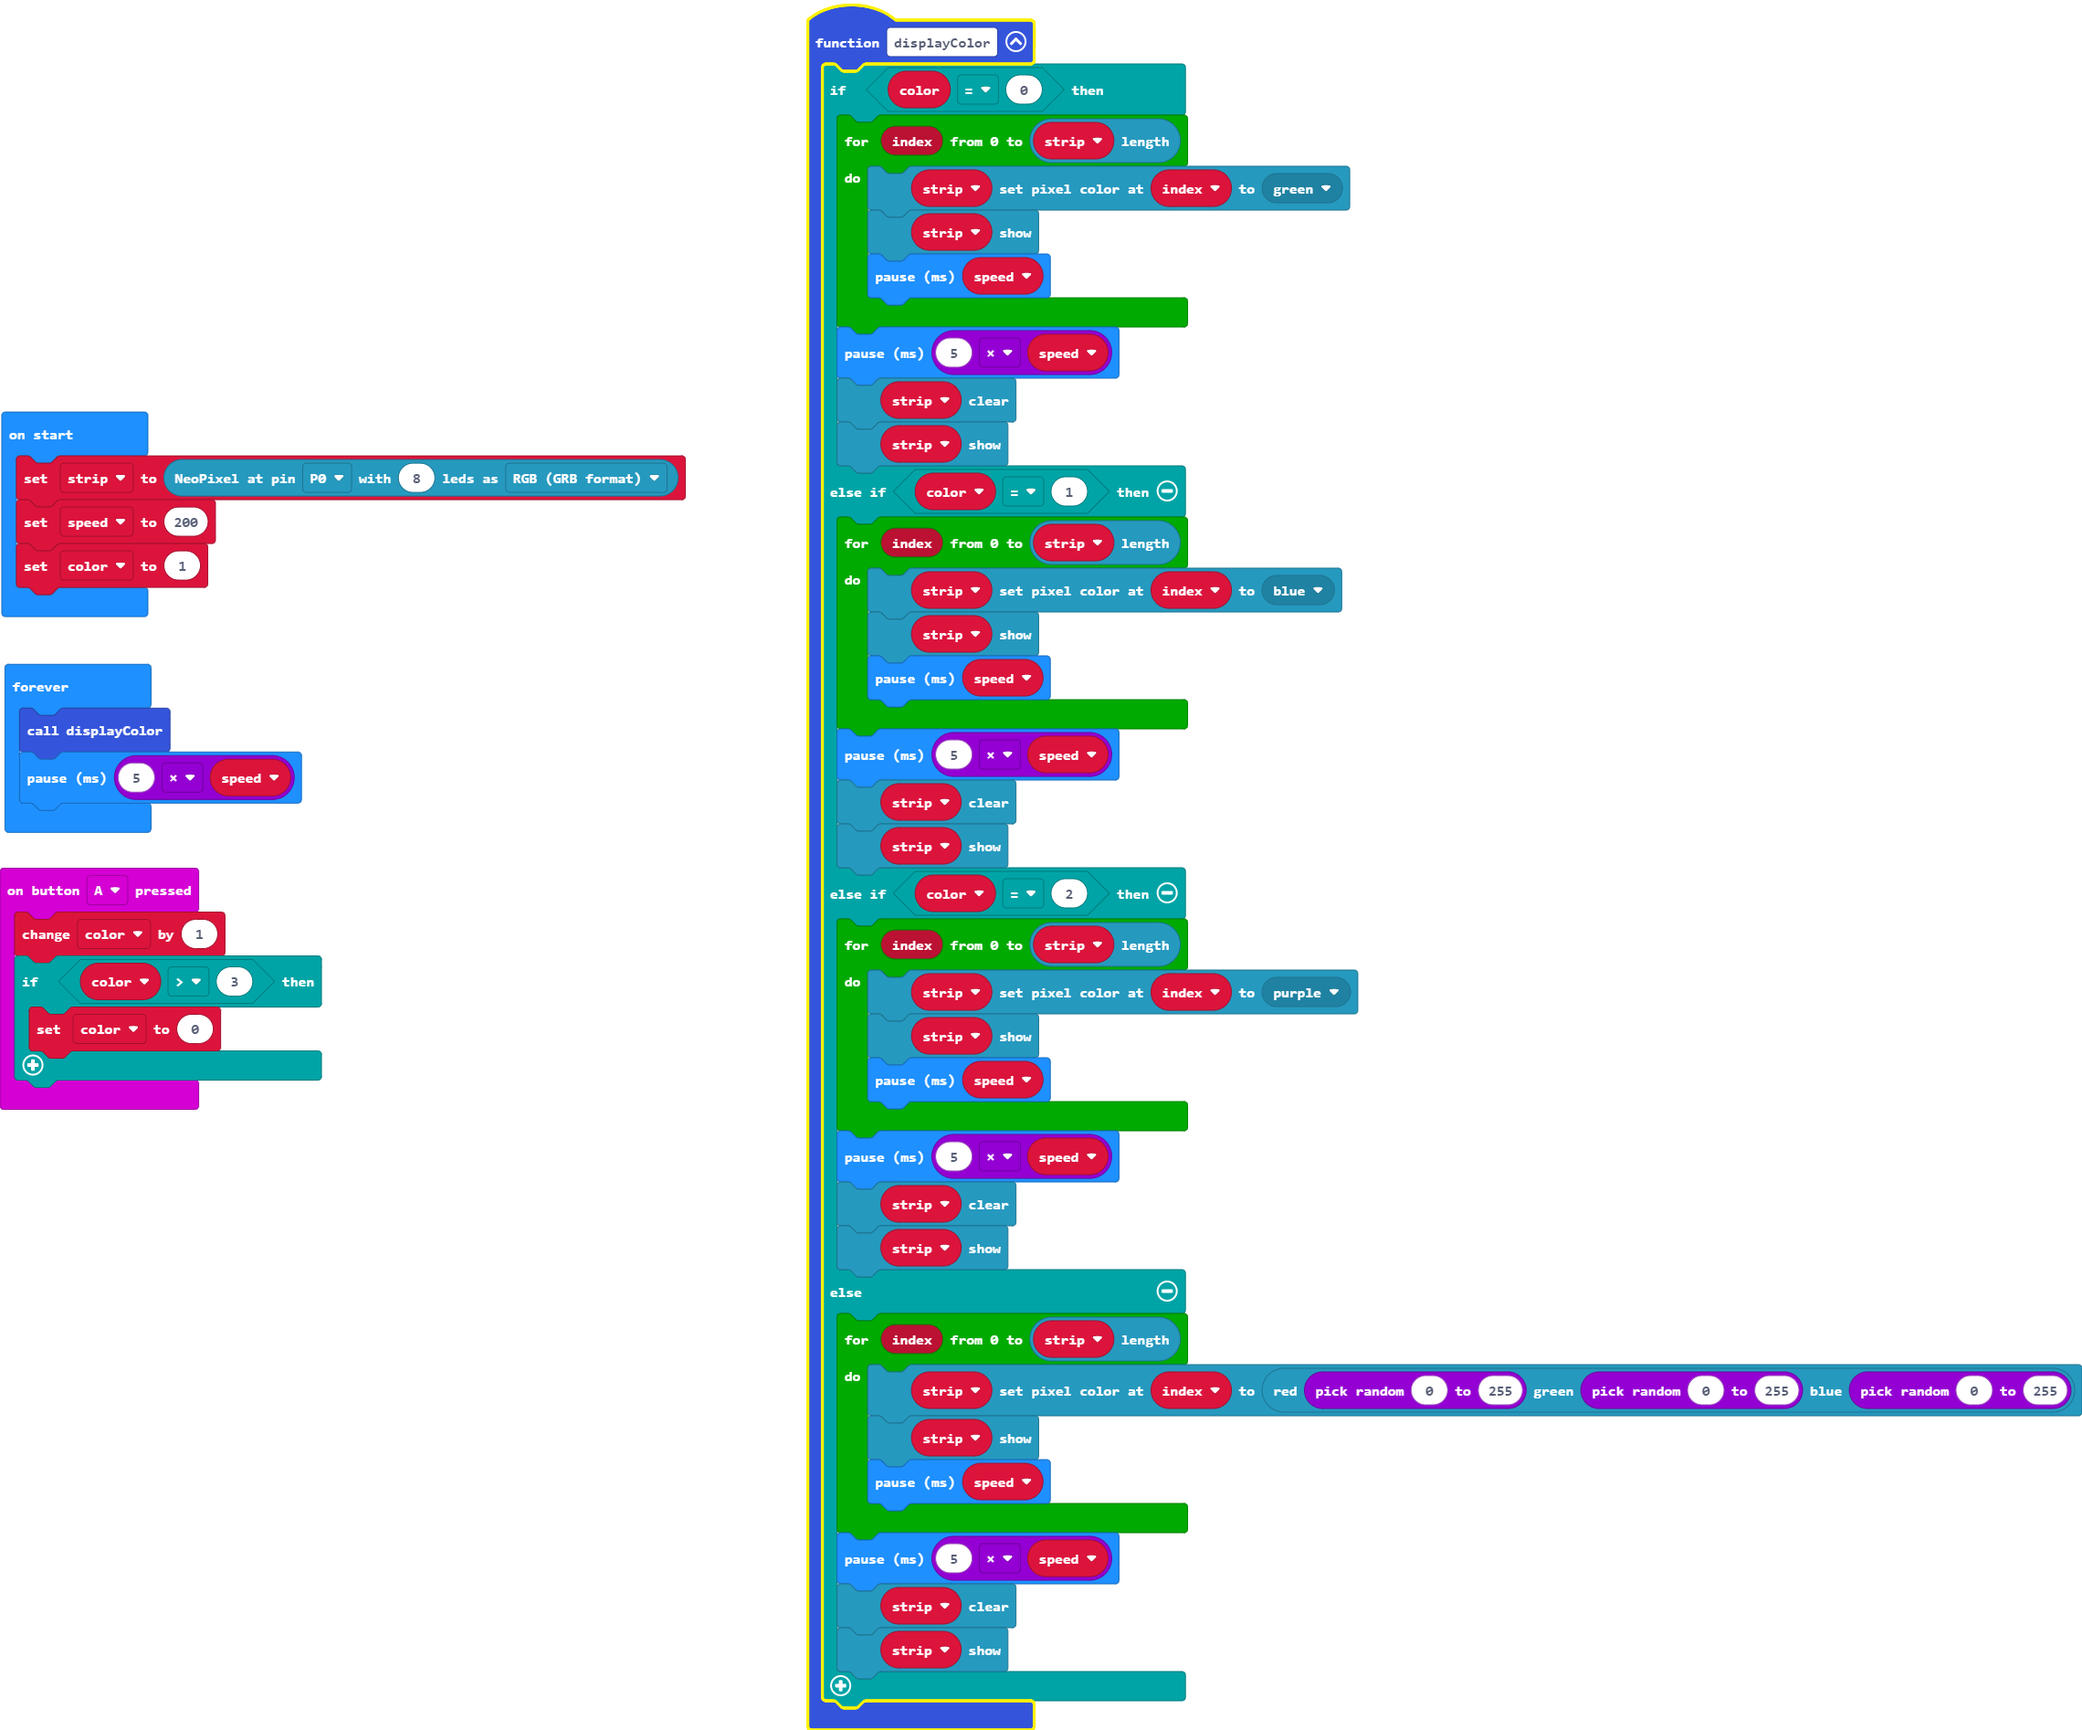
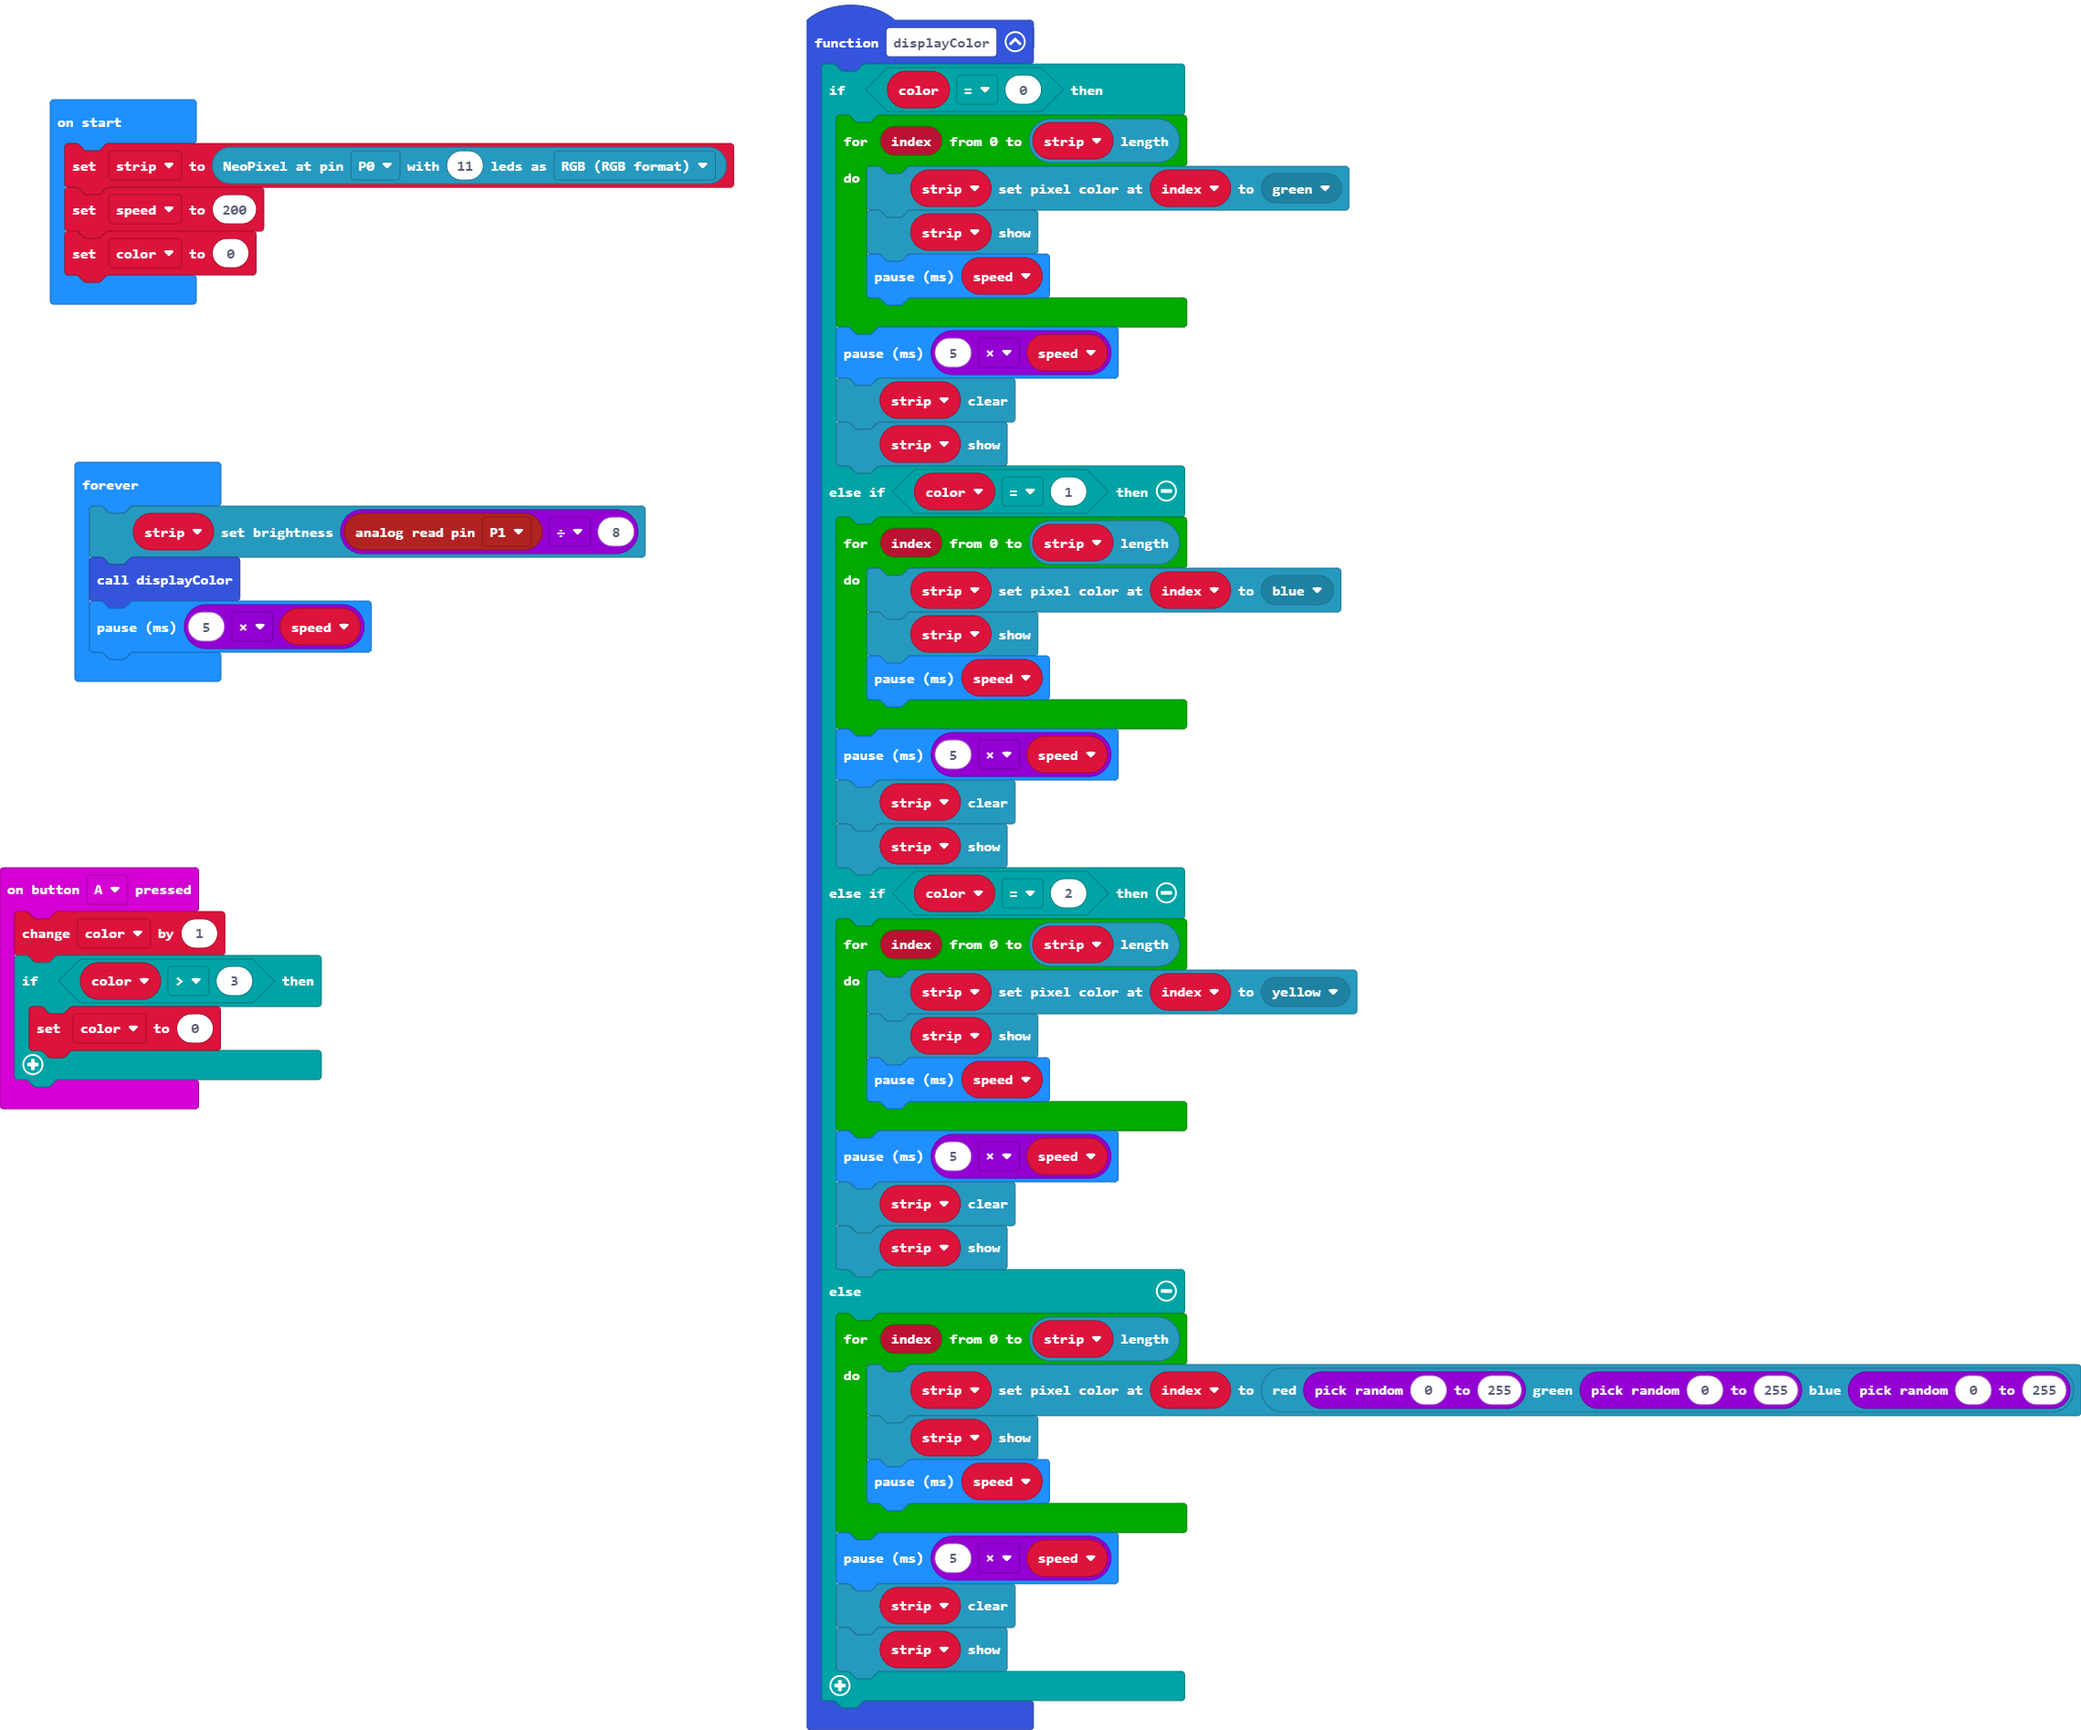
Update main.blocks, main.ts

Changed region(s): [[0.0, 0.0, 0.4985, 1.0], [0.0, 0.2181, 0.3427, 0.623]]

diff --git a/main.ts b/main.ts
@@ -25,7 +25,7 @@ function displayColor () {
         strip.show()
     } else if (color == 2) {
         for (let index = 0; index <= strip.length(); index++) {
-            strip.setPixelColor(index, neopixel.colors(NeoPixelColors.Purple))
+            strip.setPixelColor(index, neopixel.colors(NeoPixelColors.Yellow))
             strip.show()
             basic.pause(speed)
         }
@@ -46,10 +46,11 @@ function displayColor () {
 let color = 0
 let speed = 0
 let strip: neopixel.Strip = null
-strip = neopixel.create(DigitalPin.P0, 8, NeoPixelMode.RGB)
+strip = neopixel.create(DigitalPin.P0, 11, NeoPixelMode.RGB_RGB)
 speed = 200
-color = 1
+color = 0
 basic.forever(function () {
+    strip.setBrightness(pins.analogReadPin(AnalogPin.P1) / 8)
     displayColor()
     basic.pause(5 * speed)
 })
